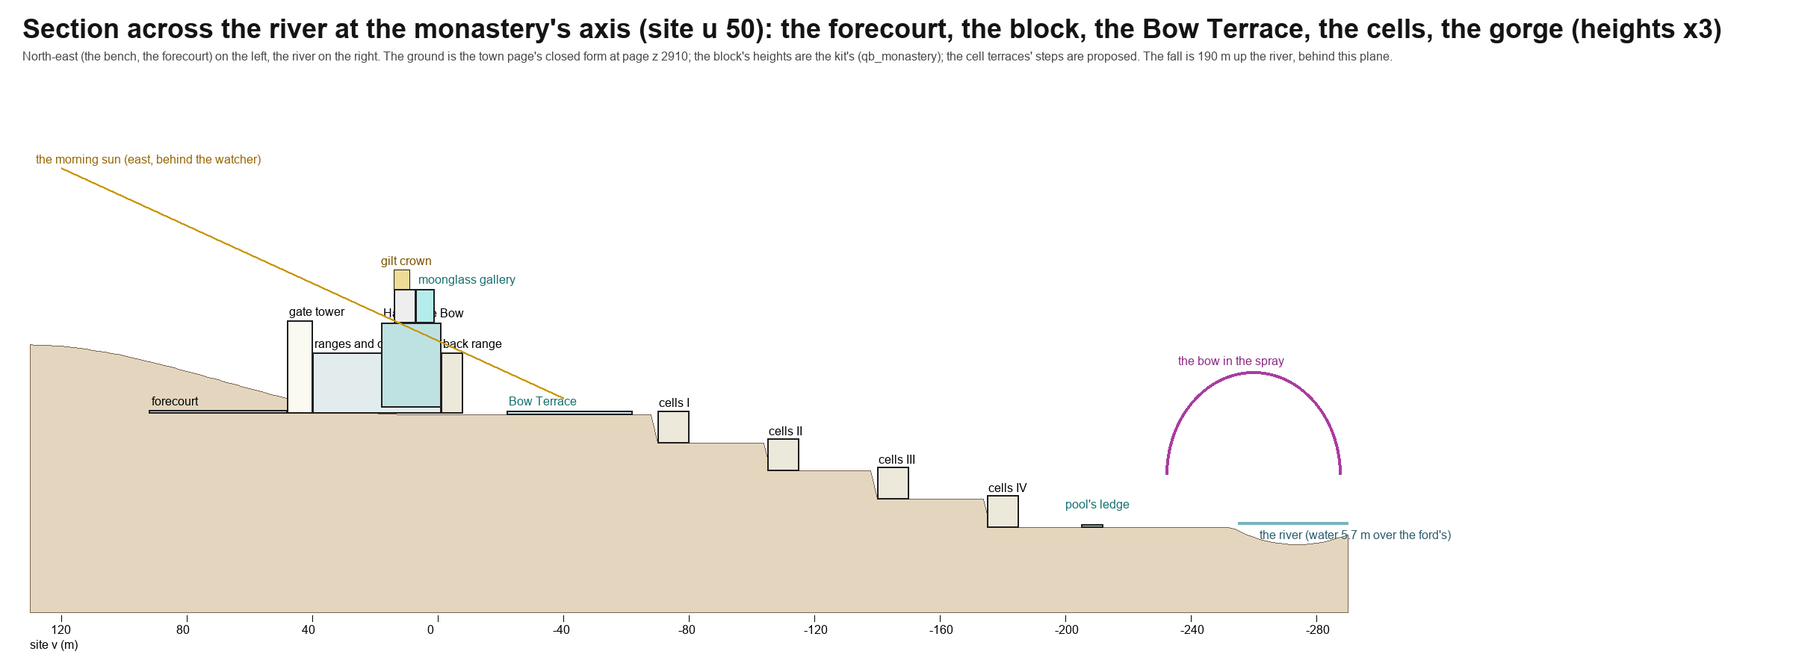
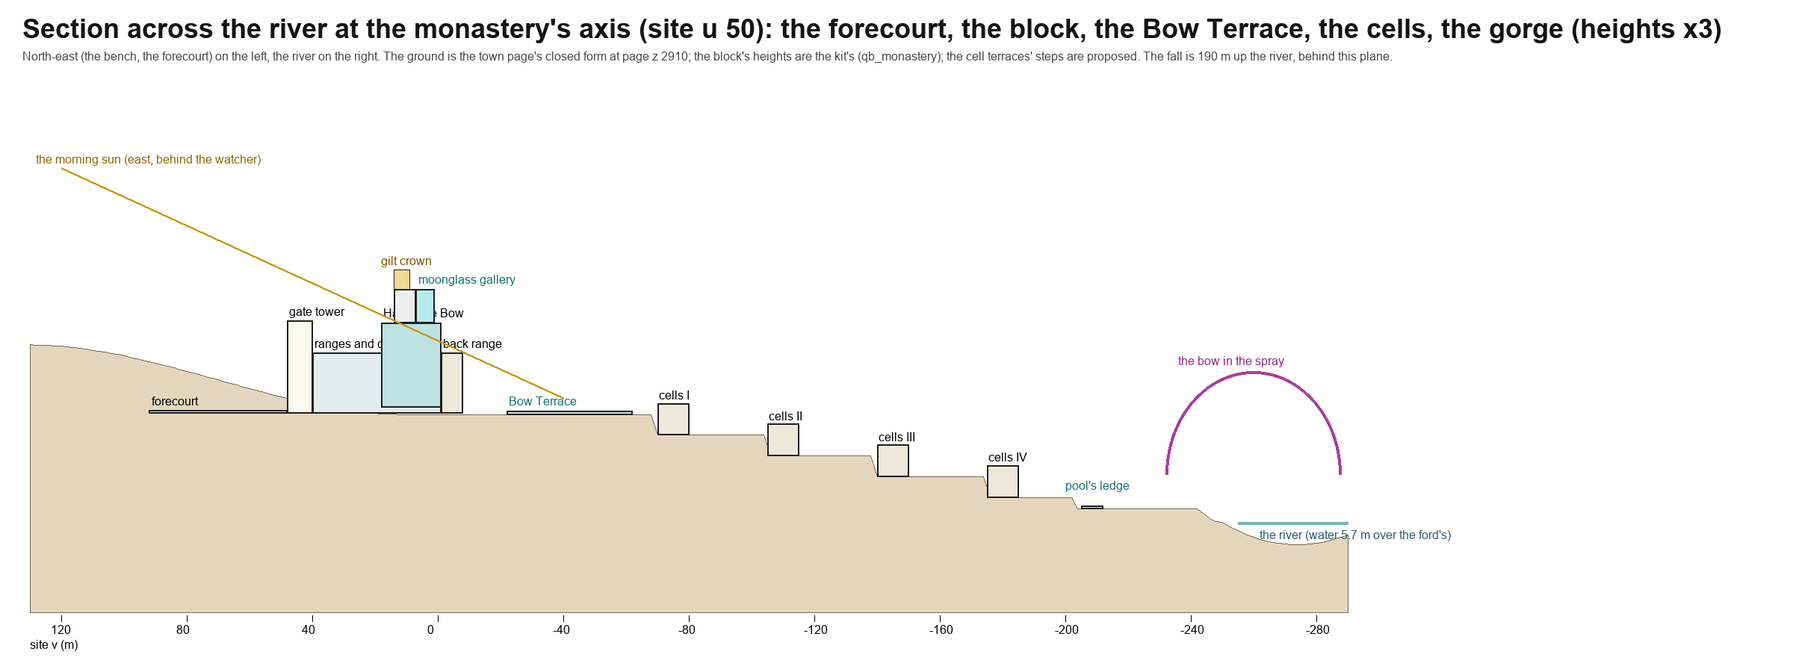
settlements/opal-ford: the Iridescent Order's house on the page (BUILD-PLAN A11b, step OF1b)
The owner, 2026-11-23: "Build the records".

- 89zp-of-site.js: OF.HOUSE, the blueprint's site frame on the page (u = z - 2860, v = x - 300). The ground (ofH over the
  bank's closed form, now ofHbare): the Bow Terrace levelled at its middle's height, the four cell terraces graded 2.2 m apart
  below it, the pool's ledge 10 m below it and about 2.5 m over the water; each a level platform blended into the bank, the
  terraces meeting in risers. The house's 50 records (OF_HOUSE_SPEC, kind 'order'): the Qiblai kit's great monastery in the
  Turquoise dress (o.v 4) with its gate north-east, the forecourt's wheel houses and chorten, the Prismarch's Lodge, the cells
  as the kit's kora arcades on the terraces with a chorten at each, the house of studies (college, gate temple, four lodges,
  the prism pillar), the Gate of the Road, the guest house (the kit's caravanserai), the infirmary, the service court, the
  Prism Workshop, the lay servants' houses, eight chortens down the Way of the Colours, the Bridge of the Spray and the far
  lip's chorten. The pavings, the tank, the Way and the kora as paths; the flora mask after the blueprint's gardens.
- kit.json: the Qiblai kit taken in place (externalDirs kits/qiblai/src, its pack), as Lightwall's page takes it; build.py
  writes its Xanadui script first. The page is 14.1 MB.
- 90q paints the pavings and the tank; 91z adds two views; verify.py: of-house, and of-works counts only the town's
[…]

Changed region(s): [[0.3438, 0.5911, 0.6875, 0.8089]]

diff --git a/settlements/opal-ford/targets/town/89zp-of-site.js b/settlements/opal-ford/targets/town/89zp-of-site.js
@@ -18,8 +18,9 @@
 // the market square at the ford street's head with the han across it, the temple above it, the toll house and the Golden Tears'
 // post at the ford's head; blocks filled by core/city's frontage-courts with the Xanadu kit's houses. Outside the town, placed as
 // hosts in the same instance: the footbridge's spans, the watermill on its race, the terraced fields and farmsteads on the
-// slope behind, the dugouts drawn up by the ford. Not built: the Iridescent Order's precinct at the fall's foot (OF.PRECINCT,
-// the owner, 2026-11-23: "Town first, then design"; PLAN.md step OF1b), kept clear of everything.
+// slope behind, the dugouts drawn up by the ford. At the fall's foot, in its own precinct (OF.PRECINCT; PLAN.md step OF1b): the
+// Iridescent Order's house from its blueprint (iridescent/BLUEPRINT.md), hand-placed records on platforms graded into the ground
+// (OF.HOUSE, ofH), none of the town's in it.
 var OF={SEED:96413,PIN:[969,1634],Y0:-13,DOWN:[-11,-8.5],
  RIVER:{hw:26,depth:2.4,ford:{hw:18,depth:1.8,len:110},meander:[30,1300,200]},
  REACH:{slack:[-1500,2500],slackRise:.0008,down:.012,up:.009,fall:{z:3100,h:20,len:90,gorge:420}},
@@ -27,7 +28,10 @@ var OF={SEED:96413,PIN:[969,1634],Y0:-13,DOWN:[-11,-8.5],
  SW:{bank:1.6,flats:130,spur:320,spurK:1800},
  TOWN:{o:[700,0],half:900,bank:460,high:620,back:800,z:[-440,440],cross:[-300,-140,140,300]},
  SQUARE:{x:[470,602],z:[16,128]},
- PRECINCT:{x:[90,560],z:[2580,3020]}};
+ PRECINCT:{x:[90,560],z:[2580,3045]},
+ /* the Iridescent Order's house (settlements/opal-ford/iridescent/BLUEPRINT.md): its site frame is u = z - 2860, v = x - 300;
+    the Bow Terrace levelled, the four cell terraces graded 2.2 m apart below it and the pool's ledge below them */
+ HOUSE:{z0:2860,x0:300,bow:{u:[20,140],v:[-62,-22]},terr:[-70,-105,-140,-175],cut:2.2,tu:[88,174],ledge:{u:[143,180],v:[-214,-203],below:10},blend:5}};
 const ofSm=(a,b,x)=>{const t=Math.min(1,Math.max(0,(x-a)/(b-a)));return t*t*(3-2*t);};
 const ofD=(v,d)=>v==null?d:v;
 // the river: its line (x of the channel's middle at z), its half-width and depth (the ford widens and shoals it)
@@ -43,7 +47,22 @@ function ofW(z){const R=OF.REACH,s=R.slack,F=R.fall;let y;
 // the valley's floor level at z: the water's, but the fall's step taken earlier (the banks stand over the river below it: the gorge)
 function ofFloor(z){const F=OF.REACH.fall;return ofW(z)-F.h*ofSm(F.z-F.len/2,F.z+F.len/2,z)+F.h*ofSm(F.z-F.gorge,F.z+F.len/2,z);}
 // the ground's height at page (x, z): the channel, then each bank's profile from the channel's edge (e metres out)
-function ofH(x,z){const w=ofW(z),c=ofRiverX(z),hw=ofHW(z),d=x-c,a=Math.abs(d);
+// the ground with the Iridescent Order's platforms graded into it (OF.HOUSE): the Bow Terrace levelled at its middle's height,
+// the four cell terraces 2.2 m apart below it, the pool's ledge 10 m below it; each a level platform blended into the bank over
+// OF.HOUSE.blend metres at its edges (cut where the bank stands higher, filled where it stands lower)
+let ofBowY=null;
+function ofHouseRects(){const Hh=OF.HOUSE,R=[{u:Hh.bow.u,v:Hh.bow.v,drop:0}];
+ Hh.terr.forEach((vt,k)=>R.push({u:Hh.tu,v:[vt-17,vt+(k?18:2)],drop:Hh.cut*(k+1)}));
+ R.push({u:Hh.ledge.u,v:Hh.ledge.v,drop:Hh.ledge.below});return R;}
+const OF_HOUSE_RECTS=ofHouseRects();
+function ofH(x,z){const y=ofHbare(x,z),Hh=OF.HOUSE,u=z-Hh.z0,v=x-Hh.x0;
+ if(u<Hh.bow.u[0]-Hh.blend||u>Hh.ledge.u[1]+Hh.blend||v<Hh.ledge.v[0]-Hh.blend||v>Hh.bow.v[1]+Hh.blend)return y;
+ if(ofBowY==null)ofBowY=ofHbare(Hh.x0+(Hh.bow.v[0]+Hh.bow.v[1])/2,Hh.z0+(Hh.bow.u[0]+Hh.bow.u[1])/2);
+ const b=Hh.blend;let bw=0,bl=0;for(const r of OF_HOUSE_RECTS){if(u<r.u[0]-b||u>r.u[1]+b||v<r.v[0]-b||v>r.v[1]+b)continue;
+  const w=ofSm(-b,0,u-r.u[0])*ofSm(-b,0,r.u[1]-u)*ofSm(-b,0,v-r.v[0])*ofSm(-b,0,r.v[1]-v);
+  if(w>bw){bw=w;bl=ofBowY-r.drop;}}   /* the platform it stands most within: adjacent terraces meet in a riser */
+ return bw>0?y+(bl-y)*bw:y;}
+function ofHbare(x,z){const w=ofW(z),c=ofRiverX(z),hw=ofHW(z),d=x-c,a=Math.abs(d);
  if(a<hw){const t=a/hw;return w-ofDepth(z)*(1-t*t);}
  const e=a-hw,L=ofFloor(z),lift=Math.max(0,L-w),N=OF.NE,S=OF.SW;
  let y=w+(lift+N.bank)*ofSm(0,14+2*lift,e);
@@ -171,8 +190,56 @@ function ofWorks(){const c0=ofRiverX(0),hw0=ofHW(0),W={};
   {tag:'the opal road up the south-west bank',w:6,pts:[[cw0-hw0-2,0],[-150,120],[-215,700],[-235,1500],[-255,2400],[-300,3500]]}];
  return W;}
 
+// ---------------------------------------------------------------- THE IRIDESCENT ORDER'S HOUSE (iridescent/BLUEPRINT.md; PLAN.md step OF1b)
+// The blueprint's buildings as records in its site frame (u up the river, v north-east: page x = v + 300, z = u + 2860), each
+// the kit piece that stands for it: the Qiblai kit's great monastery in the Turquoise dress (o.v 4) for sheets M1-MR, its gate
+// north-east and the Hall of the Bow toward the spray; the house of studies as the kit's college, a gate temple and four lodges
+// round the debate court (H1, H2: the kit has no 12 m range, the lodges stand for the dormitories); the cells as the kit's kora
+// arcades on the four graded terraces (C: no cell-range piece yet), a chorten at each terrace's fall end; the guest house as the
+// kit's caravanserai, the infirmary and the Prismarch's Lodge as its lodges, the service court in the Xanadu kit's pieces (G);
+// eight chortens down the Way of the Colours; the Bridge of the Spray (two spans) below the pool and the chorten on the far lip.
+// [key, u, v, facing ('+u' up the river, '-u' down it, '+v' away from the river, '-v' toward it), why, o.v, fy (a fixed floor
+// over the water: the spans)]
+const OF_FACE={'+u':0,'-u':Math.PI,'+v':Math.PI/2,'-v':-Math.PI/2};
+const OF_HOUSE_SPEC=(function(){
+ const S=[],TR=OF.HOUSE.terr;
+ S.push(['qb_monastery',50,20,'+v','the great monastery: the Hall of the Bow under the gilt crown, the Gallery of the Bow in moonglass facing the spray (sheets M1, M2, MR)',4]);
+ S.push(['qb_wheel_house',36,80,'+u','the forecourt\'s wheel house',0],['qb_wheel_house',64,80,'-u','the forecourt\'s wheel house',0],['qb_chorten',50,86,'-v','the eighth chorten, before the Gate of the White Light',0]);
+ S.push(['qb_guild_lodge',107,43,'-u','the Prismarch\'s Lodge: kept for the Prismarch of the Turquoise spoke on his way to Qiblai',0]);
+ TR.forEach((vt,k)=>{S.push(['qb_kora_arcade',107.2,vt-4,'-v','terrace '+(k+1)+': the cells (the kit\'s kora arcade stands for the cell range)',0],
+  ['qb_kora_arcade',131.6,vt-4,'-v','terrace '+(k+1)+': the cells',0],['qb_chorten',157,vt-5,'-v','terrace '+(k+1)+'\'s shrine, in '+['red','orange and yellow','green and turquoise','blue and violet'][k],0]);});
+ S.push(['qb_gate_temple',-110,150,'-v','the Gate of the Novices (the house of studies, sheet H1)',0],['qb_college',-110,201,'-v','the school of the divided light: lecture halls, the library, the scriptorium',0],
+  ['qb_guild_lodge',-140,160,'+u','a novices\' lodge (the dormitories, sheet H2)',0],['qb_guild_lodge',-140,200,'+u','a novices\' lodge',0],
+  ['qb_guild_lodge',-80,160,'-u','a novices\' lodge',0],['qb_guild_lodge',-80,200,'-u','the masters\' lodge',0],['qb_chorten',-110,171.5,'-v','the prism pillar of the debate court',0]);
+ S.push(['qb_gate_temple',-273,111,'-u','the Gate of the Road, on the river road from the town',0],['qb_caravanserai',-229,168,'-v','the guest house: the pilgrims and the opal road\'s travellers, its stable court',0],
+  ['qb_guild_lodge',-173,170,'-u','the infirmary',0],['qb_guild_lodge',-173,196,'-u','the apothecary',0],
+  ['xa_guild_farm',-46,142,'-v','the monks\' refectory (the Song read at meals)',0],['qb_bakery',-16,142,'-v','the great kitchen',0],
+  ['xa_granary',-50,184,'-v','the granary (the town\'s rice tithe)',0],['xa_granary',-28,184,'-v','the stores',0],['qb_workshop',-6,184,'-v','the laundry and dye house',0],
+  ['qb_workshop',-50,216,'-v','the Prism Workshop: the Glaziers\' lodge',0],['qb_workshop',-34,216,'-v','the glass store',0]);
+ [['xa_poor_c',-140],['xa_poor_a',-121],['xa_poor_b',-100],['xa_poor_c',-81]].forEach(([k,u])=>S.push([k,u,242,'-v','a lay servant\'s house',0]));
+ for(let k=0;k<8;k++)S.push(['qb_chorten',-250+23*k,128,'-v','a chorten of the Way of the Colours: '+['red','orange','yellow','green','turquoise','blue','violet','white'][k],0]);
+ return S;})();
+function ofHouse(){const K=KCITY.lib,Hh=OF.HOUSE,out=[],errs=[];
+ const put=(key,x,z,ry,why,v0,kind,fy)=>{const v=v0|0,D=ofDims(key,v);if(!D){errs.push(key);return;}
+  const u=[Math.cos(ry),-Math.sin(ry)],o=K.obb([x,z],u,D.w/2,D.d/2);let y,drop=0;
+  if(fy!=null)y=ofW(z)+fy;else{const st=KCITY.stance(o,ofH,{maxDrop:24});y=st?st.y:ofH(x,z);if(st)drop=st.drop||0;}
+  out.push({id:'house:'+out.length,key,v,x,z,ry,w:D.w,d:D.d,h:D.h,o:{v,y},kind,why,court:null,bo:{c:[x,z],u:o.u,hw:D.w/2,hd:D.d/2},drop});};
+ for(const [key,su,sv,f,why,v] of OF_HOUSE_SPEC)put(key,sv+Hh.x0,su+Hh.z0,OF_FACE[f],why,v,'order');
+ /* the Bridge of the Spray below the pool, and the chorten on the far lip where the kora turns */
+ const zb=Hh.z0+165,cb=ofRiverX(zb),hwb=ofHW(zb);
+ for(const i of[-1,1])put('xa_river_span',cb+i*13,zb,Math.PI/2,'the Bridge of the Spray: the kora crosses below the pool',0,'bridge',4);
+ put('qb_chorten',cb-hwb-34,zb,Math.PI/2,'the chorten on the far lip, facing the fall: the kora turns here',0,'order');
+ /* the pavings and the kora's paths, in page metres (drawn by 90q's paint and 90r) */
+ const P=(u,v)=>[v+Hh.x0,u+Hh.z0],rect=(us,vs)=>[P(us[0],vs[0]),P(us[1],vs[0]),P(us[1],vs[1]),P(us[0],vs[1])];
+ const pav=[{what:'the Bow Terrace',poly:rect(Hh.bow.u,Hh.bow.v)},{what:'the forecourt',poly:rect([30,70],[48,92])},{what:'the pool\'s ledge',poly:rect(Hh.ledge.u,Hh.ledge.v)}]
+  .concat(Hh.terr.map((vt,k)=>({what:'terrace '+(k+1)+'\'s walk',poly:rect([92,170],[vt-15,vt-9])})));
+ const ways=[{cls:'path',w:6,tag:'the Way of the Colours',pts:[P(-268,110),P(-60,110),P(20,96),P(50,62)]},
+  {cls:'path',w:3,tag:'the Kora of the Falls: down the Spray Stair',pts:[P(140,-42),P(166,-48),P(166,-208),P(160,-210)]},
+  {cls:'path',w:3,tag:'the kora up the far bank',pts:[[cb-hwb-2,zb],[cb-hwb-30,zb]]}];
+ return{place:out,errs,pavings:pav,ways,tank:rect([-60,-20],[72,98]),bridge:{z:zb}};}
+
 // ---------------------------------------------------------------- run the plan
-var OF_TOWN={},OF_PLACE=[],OF_WORKS=null,OF_ERR=null;
+var OF_TOWN={},OF_PLACE=[],OF_WORKS=null,OF_HOUSE=null,OF_ERR=null;
 function ofRun(){
  const C=KCITY.create({name:'opal-ford',tune:ofTune(OF.TOWN.half),seed:OF.SEED,ground:{h:OF_L.h},kit:{dims:ofDims},rand:'krand',index:{order:'insertion'},steps:ofSteps()});
  OF_TOWN.C=C;OF_TOWN.plan=C.run();OF_WORKS=ofWorks();
@@ -181,6 +248,8 @@ function ofRun(){
    kind:T.cls==='landmark'?(T.ofKind||'civic'):'house',why:T.why||T.role||null,court:T.court||null,bo:{c:q,u:T.bo.u,hw:T.bo.hw,hd:T.bo.hd},drop:T.drop||0});}
  OF.ways=OF_TOWN.plan.ways.map(w=>({cls:w.cls,w:w.w,tag:w.tag,pts:w.pts.map(p=>[p[0]+OF_L.o[0],p[1]+OF_L.o[1]]),closed:w.closed}))
   .concat(OF_WORKS.roads.map(r=>({cls:'road',w:r.w,tag:r.tag,pts:r.pts})));
+ /* the Iridescent Order's house, after the town (its records in OF_PLACE with kind 'order' and 'bridge', its paths with the ways) */
+ OF_HOUSE=ofHouse();for(const p of OF_HOUSE.place)OF_PLACE.push(p);OF.ways=OF.ways.concat(OF_HOUSE.ways);
  /* the people: each house's household by its key (the tune's 1,500, within 25 %), the hosts none */
  let people=0;for(const p of OF_PLACE)if(p.kind==='house')people+=ofD(OF_PEOPLE[p.key],5);
  OF.people={total:people,tune:OF_TUNE.people};
@@ -201,7 +270,9 @@ function ofBioMaskMake(){const S=KCITY.lib.KSPACE,B=S.create({cell:40}),W=S.crea
   for(const q of W.query(x,z,1)){const dx=q.b[0]-q.a[0],dz=q.b[1]-q.a[1],L2=Math.max(1e-9,dx*dx+dz*dz);let t=((x-q.a[0])*dx+(z-q.a[1])*dz)/L2;t=t<0?0:t>1?1:t;if(Math.hypot(q.a[0]+dx*t-x,q.a[1]+dz*t-z)<q.r)return 0;}
   for(const p of B.query(x,z,1))if(Math.abs((x-p.x)*p.bo.u[0]+(z-p.z)*p.bo.u[1])<p.bo.hw+1.5&&Math.abs(-(x-p.x)*p.bo.u[1]+(z-p.z)*p.bo.u[0])<p.bo.hd+1.5)return 0;
   for(const q of Pd.query(x,z,1))if(ofInPoly([x,z],q.poly))return 0;
-  if(x>PR.x[0]&&x<PR.x[1]&&z>PR.z[0]&&z<PR.z[1])return .02;                                    /* the precinct's clearing, kept */
+  if(x>PR.x[0]&&x<PR.x[1]&&z>PR.z[0]&&z<PR.z[1]){                                              /* the house's grounds (sheet S0) */
+   const u=z-OF.HOUSE.z0,v=x-OF.HOUSE.x0,inR=(u0,u1,v0,v1)=>u>u0&&u<u1&&v>v0&&v<v1;
+   if(inR(-262,-80,-150,96))return .5;if(inR(-262,-150,-210,-158))return .3;if(inR(92,150,66,124))return .22;if(inR(-60,14,-60,60))return .12;return .03;}
   const F=OF.REACH.fall;if(z>F.z-F.gorge-200&&z<F.z+300&&e<160)return .9;                      /* the gorge below the fall and its lip */
   if(d<0)return e<OF.SW.flats?.06:.75;                                                          /* the south-west bank: its flats, the spur */
   if(x>T.bank-20&&x<T.back+20&&z>T.z[0]&&z<T.z[1])return .05;                                    /* a yard in the town */
@@ -212,4 +283,5 @@ if(typeof BIO!=='undefined'&&BIO.host&&typeof VERN!=='undefined'&&!OF_ERR){
    flow:(x,z)=>Math.max(0,1-(Math.abs(x-ofRiverX(z))-ofHW(z))/30),mist:(x,z)=>Math.max(0,1-Math.hypot(x-ofRiverX(z),z-OF.REACH.fall.z)/220)}});}
 if(typeof window!=='undefined')window._opalford={placed:OF_PLACE.length,err:OF_ERR,people:OF.people,
  hosts:OF_PLACE.filter(p=>p.kind!=='house').length,houses:OF_PLACE.filter(p=>p.kind==='house').length,
- blocks:(OF_TOWN.blocks||[]).length,ways:(OF.ways||[]).length,paddies:OF_WORKS?OF_WORKS.paddies.length:0};
+ blocks:(OF_TOWN.blocks||[]).length,ways:(OF.ways||[]).length,paddies:OF_WORKS?OF_WORKS.paddies.length:0,
+ house:OF_HOUSE?{placed:OF_HOUSE.place.length,errs:OF_HOUSE.errs,bow:ofBowY}:null};

diff --git a/settlements/opal-ford/tests/test-of-site.js b/settlements/opal-ford/tests/test-of-site.js
@@ -6,7 +6,9 @@
 //   - no two standing footprints overlap (exact SAT, 0.1 m);
 //   - no house stands on a street's carriageway or a road's;
 //   - nothing but the footbridge's spans and the dugouts stands in the river; the dugouts at the waterline;
-//   - nothing on a paddy, nothing in the Iridescent Order's precinct (kept for its design, PLAN.md step OF1b);
+//   - nothing on a paddy, nothing of the town's in the Iridescent Order's precinct;
+//   - the house (iridescent/BLUEPRINT.md): every piece with its def, the great monastery in the Turquoise dress, the cells'
+//     arcades on their graded terraces, the Bow Terrace level, the pool's ledge over the water;
 //   - the people the tune's 1,500 within 25 %;
 //   - the han, the toll house, the Tears' post, the temple, the granaries, the mill, the footbridge, the dugouts, the terraces placed;
 //   - the plan is the same when run twice (KRAND).
@@ -23,9 +25,9 @@ KCITY.lib = { SL, plan: () => PLAN, KSPACE, Raster, OCC, obb, obbCorners };
 load('core/region/data/xan-tune.js');
 // the kit's boxes from its defs (src and the opt-in extra/ pieces the page takes: kit.json)
 global.OF_KIT_DIMS = {};
-const XS = [path.join(ROOT, 'kits', 'xanadu', 'src'), path.join(ROOT, 'kits', 'xanadu', 'extra')];
+const XS = [path.join(ROOT, 'kits', 'xanadu', 'src'), path.join(ROOT, 'kits', 'xanadu', 'extra'), path.join(ROOT, 'kits', 'qiblai', 'src')];   /* qiblai: the Iridescent Order's house */
 for (const f of [].concat(...XS.map(d => fs.readdirSync(d).filter(f => f.endsWith('.js')).map(f => path.join(d, f))))) {
-  const s = fs.readFileSync(f, 'utf8'), re = /XA\.def\(\{/g; let m;
+  const s = fs.readFileSync(f, 'utf8'), re = /(?:XA|QB)\.def\(\{/g; let m;
   while ((m = re.exec(s))) { const head = s.slice(m.index, m.index + 1500), k = /key:\s*'([^']+)'/.exec(head), b = /\bw:\s*([\d.]+),\s*d:\s*([\d.]+)(?:,\s*h:\s*([\d.]+))?/.exec(head);
     if (k && b && !OF_KIT_DIMS[k[1]]) OF_KIT_DIMS[k[1]] = { w: +b[1], d: +b[2], h: b[3] == null ? 8 : +b[3] }; }
 }
@@ -48,7 +50,7 @@ const WET_OK = { xa_river_span: 1, xa_dugout: 1 };
 const inRiver = list => list.filter(p => !WET_OK[p.key] && corners(p.bo).concat([p.bo.c]).some(q => ofH(q[0], q[1]) < ofW(q[1]) + 0.3));
 const boatsBad = list => list.filter(p => p.key === 'xa_dugout').filter(p => { const h = ofH(p.x, p.z) - ofW(p.z); return h < -1.2 || h > 1.6; });
 const onPaddy = list => list.filter(p => corners(p.bo).concat([p.bo.c]).some(q => OF_WORKS.paddies.some(P => ofInPoly(q, P.poly))));
-const inPrecinct = list => { const R = OF.PRECINCT; return list.filter(p => corners(p.bo).concat([p.bo.c]).some(q => q[0] > R.x[0] && q[0] < R.x[1] && q[1] > R.z[0] && q[1] < R.z[1])); };
+const inPrecinct = list => { const R = OF.PRECINCT; return list.filter(p => p.kind !== 'order' && p.kind !== 'bridge').filter(p => corners(p.bo).concat([p.bo.c]).some(q => q[0] > R.x[0] && q[0] < R.x[1] && q[1] > R.z[0] && q[1] < R.z[1])); };
 
 // ---------------------------------------------------------------- 1. the plan lays
 const P = OF_PLACE, houses = P.filter(p => p.kind === 'house');
@@ -78,10 +80,26 @@ T.ok('nothing but the footbridge\'s spans and the dugouts stands in the river; t
 
 // ---------------------------------------------------------------- 5. off the paddies; the precinct kept
 const pd = onPaddy(P), pr = inPrecinct(P);
-T.ok('nothing stands on a paddy; nothing in the Iridescent Order\'s precinct (kept for its design)', !pd.length && !pr.length && OF_WORKS.paddies.length > 60,
+T.ok('nothing stands on a paddy; nothing of the town\'s in the Iridescent Order\'s precinct', !pd.length && !pr.length && OF_WORKS.paddies.length > 60,
   pd.length + ' on a paddy' + (pd[0] ? ' (' + pd[0].id + ' ' + pd[0].key + ')' : '') + ', ' + pr.length + ' in the precinct, ' + OF_WORKS.paddies.length + ' paddies');
 { const a = houses[0], R = OF.PRECINCT, inp = Object.assign({}, a, { id: 'in', bo: Object.assign({}, a.bo, { c: [(R.x[0] + R.x[1]) / 2, (R.z[0] + R.z[1]) / 2] }) });
   T.neg('...its negative: a house set in the precinct is caught', L => inPrecinct(L).length === 0, [inp], [a]); }
+
+// ---------------------------------------------------------------- 5b. the Iridescent Order's house (iridescent/BLUEPRINT.md)
+// every piece with its def; the great monastery in the Turquoise dress (o.v 4); each terrace's arcades standing on its graded
+// level (the Bow Terrace's less 2.2 m a terrace); the Bow Terrace level over its whole length; the pool's ledge over the water
+function houseBad(H, bowY) { const bad = [], Hh = OF.HOUSE;
+  if (H.errs.length) bad.push('no def: ' + H.errs.join(', '));
+  const m = H.place.find(p => p.key === 'qb_monastery'); if (!m || m.v !== 4) bad.push('the great monastery missing or not Turquoise');
+  H.place.filter(p => p.key === 'qb_kora_arcade').forEach(p => { const k = Hh.terr.findIndex(vt => Math.abs(p.x - Hh.x0 - (vt - 4)) < 1), lv = bowY - Hh.cut * (k + 1);
+    if (k < 0 || Math.abs(ofH(p.x, p.z) - lv) > .3) bad.push(p.id + ' off its terrace (' + ofH(p.x, p.z).toFixed(2) + ' / ' + lv.toFixed(2) + ')'); });
+  for (const u of [Hh.bow.u[0] + 6, (Hh.bow.u[0] + Hh.bow.u[1]) / 2, Hh.bow.u[1] - 6]) { const h = ofH(Hh.x0 - 42, Hh.z0 + u); if (Math.abs(h - bowY) > .05) bad.push('the Bow Terrace not level at u ' + u + ' (' + h.toFixed(2) + ')'); }
+  for (const u of Hh.ledge.u) { const z = Hh.z0 + u, x = Hh.x0 + (Hh.ledge.v[0] + Hh.ledge.v[1]) / 2; if (ofH(x, z) - ofW(z) < 1.5) bad.push('the pool\'s ledge ' + (ofH(x, z) - ofW(z)).toFixed(2) + ' m over the water at u ' + u); }
+  return bad; }
+{ const H = OF_HOUSE, bad = houseBad(H, ofBowY);
+  T.ok('the Iridescent Order\'s house: ' + H.place.length + ' pieces, the monastery Turquoise, the cells on their terraces, the Bow Terrace level, the ledge over the water',
+    !bad.length && H.place.length >= 40, bad.slice(0, 4).join('; ') || ('the Bow Terrace at ' + ofBowY.toFixed(2) + ' m over the ford\'s water'));
+  T.neg('...its negative: the cells checked against the wrong level are caught', b => houseBad(H, b).length === 0, ofBowY + 1, ofBowY); }
 
 // ---------------------------------------------------------------- 6. the people and the hosts
 const ppl = OF.people.total, tune = OF.people.tune;

diff --git a/settlements/opal-ford/targets/town/90q-of-world.js b/settlements/opal-ford/targets/town/90q-of-world.js
@@ -44,6 +44,8 @@ const ofSlope=(x,z)=>{const e=6;return Math.hypot(ofH(x+e,z)-ofH(x-e,z),ofH(x,z+
  g.strokeStyle='#5c8f8a';line(OF_WORKS.race,4);line(OF_WORKS.tail,4);
  // the square (packed earth), the ways at their widths: the avenue and the roads in packed gravel, the streets and lanes cobbled
  const SQ=OF.SQUARE;g.fillStyle='#a69a84';g.fillRect(ogx(SQ.x[0]),ogz(SQ.z[0]),(SQ.x[1]-SQ.x[0])*OFG_PX,(SQ.z[1]-SQ.z[0])*OFG_PX);
+ /* the Iridescent Order's house: its pavings (the Bow Terrace, the forecourt, the terraces' walks, the pool's ledge) in pale stone, its tank */
+ if(OF_HOUSE){g.fillStyle='#b8b1a0';for(const q of OF_HOUSE.pavings){path(q.poly,true);g.fill();}g.fillStyle='#5f8f8c';path(OF_HOUSE.tank,true);g.fill();}
  for(const w of OF.ways){g.strokeStyle=w.cls==='road'?'#a39a82':w.cls==='avenue'?'#a8a194':w.cls==='main'?'#9b9386':'#8f887b';line(w.pts,w.w);}
  // a dooryard of trodden earth under every building, a shade darker than the ground (none under the spans and the boats)
  g.fillStyle='rgba(92,80,64,.35)';for(const p of OF_PLACE){if(p.kind==='bridge'||p.kind==='boat')continue;const b=p.bo,c=Math.cos(p.ry),s=Math.sin(p.ry),hw=b.hw+2,hd=b.hd+2;

diff --git a/settlements/opal-ford/targets/town/91z-views.js b/settlements/opal-ford/targets/town/91z-views.js
@@ -10,6 +10,9 @@ const VIEWS=(function(){const V={},c0=ofRiverX(0),T=OF.TOWN,F=OF.REACH.fall,PR=O
  V['The paddies on the flats']=[200,ofH(200,-900)+30,-1000,140,2,-300];
  V['The terraces behind the town']=[1700,ofH(1700,-700)+90,-800,1300,ofH(1300,0),0];
  {const cf=ofRiverX(F.z),x=cf+ofHW(F.z)+90,z=F.z-260;V['The fall and the precinct ground']=[x,ofH(x,z)+22,z,cf,ofW(F.z)-8,F.z];}
+ {const Hh=OF.HOUSE,m=OF_PLACE.find(p=>p.key==='qb_monastery');
+  if(m)V['The Iridescent house']=[m.x+150,m.o.y+70,m.z-170,m.x-60,m.o.y,m.z+40];
+  const x=Hh.x0-120,z=Hh.z0+120;V['The Bow Terrace and the cells']=[x+250,ofH(x+250,z-60)+30,z-60,x,ofH(x,z),z+60];}
  V['Up the river from the bridge']=[c0,ofW(OF_SPAN_Z)+7,OF_SPAN_Z,c0,ofW(2400),2400];
  return V;})();
 // the town as one budget (as Phēr's): every type in the class 'city'

diff --git a/settlements/opal-ford/dist/opal-ford.html b/settlements/opal-ford/dist/opal-ford.html
@@ -1,3 +1,3 @@
 version https://git-lfs.github.com/spec/v1
-oid sha256:40c981e0e35ff4c254f3e223c6ccd3d71c7efb3b10820d45bb402c2024307084
-size 9021687
+oid sha256:f19bf49350cd1b9c8030c38990a5ac765690b4638ca3ad152022c0c0c5dc7b0f
+size 14460118

diff --git a/settlements/opal-ford/iridescent/iridescent_blueprint.py b/settlements/opal-ford/iridescent/iridescent_blueprint.py
@@ -59,7 +59,7 @@ def of_h_ne(x, z):
 BLK = (22, 78, -8, 48)
 COLL = (-150, -70, 140, 220)           # the house of studies, 80 x 80 m round its debate court
 TERR = [(-70 - 35 * k) for k in range(4)]   # the cell terraces' upper edges (v), stepping down toward the gorge
-CUT = 3.0                                   # each terrace graded 3 m below the one above (the page's bank is level: OF1b grades the cuts)
+CUT = 2.2                                   # each terrace graded 2.2 m below the one above (the page's OF.HOUSE.cut: the ledge stays over the water)
 FLOORS.append(dict(R=300, rect=(-290, 190, -270, 275), id='S0', tier=0,
   title='Sheet S0: the Iridescent Order\'s house at the cataract\'s foot, the precinct (480 x 545 m)',
   sub='On the north-east bank below the bow\'s fall (off the sheet to the right, at u 240): the flats, the riser of the first rise above the flood and the bench\'s edge, the gorge wall falling to the river at the bottom. '
@@ -247,7 +247,7 @@ crooms += [box(n, 'The Spray Stair', 'stair', SPRAY, 1, 'the kora goes down it; 
            R(n + 3, 'The Bow Terrace (above)', 'bow_terrace', 92, 170, -62, -50, 3)]
 FLOORS.append(dict(R=80, rect=(86, 182, -216, -46), id='C', tier=0,
   title='Sheet C: the cell terraces down the gorge wall beside the fall (four terraces, drawn in place)',
-  sub='Forty-eight cells on four terraces stepping down toward the gorge, each cut 3 m below the one above into the level bank (12 m in all, down to the pool\'s ledge over the water; proposed: step OF1b grades the cuts into the page\'s ground), every cell with its window on the spray of the fall 80 m up the river. '
+  sub='Forty-eight cells on four terraces stepping down toward the gorge, each graded 2.2 m below the one above into the level bank, the pool\'s ledge 10 m below the Bow Terrace and some 2.5 m over the water (the page\'s ground: OF.HOUSE), every cell with its window on the spray of the fall 80 m up the river. '
       'Each terrace has its walk in front (the kora\'s station), its shrine at the fall\'s end in one of the bow\'s colours, red at the top to violet at the foot. The Spray Stair links them to the Bow Terrace and the pool\'s ledge.',
   axisnote='u -> up the river, toward the fall (right); v north-east (up); the river below',
   lines=[([(86, -214), (182, -214)], (90, 150, 170), 4, 'the river\'s edge below the ledge')],
@@ -362,6 +362,7 @@ def draw_section():
     def gy(v):
         """the ground with the terraces' cuts (proposed: the page's bank is level here; step OF1b grades the cuts into its ground)"""
         if v > TERR[0]: return gn(v)
+        if v <= -203: return min(gn(v), gflat - 10)          # the pool's ledge (OF.HOUSE.ledge.below)
         k = min(3, int((TERR[0] - v) // 35))
         return min(gn(v), gflat - CUT * (k + 1))
     y0 = min(gy(v) for v in range(vmin, vmax + 1)) - 4

diff --git a/settlements/opal-ford/verify.py b/settlements/opal-ford/verify.py
@@ -36,8 +36,10 @@ CITY_JS = r"""
   const b=p.bo,c=Math.cos(p.ry),s=Math.sin(p.ry),hs=[[0,0],[-b.hw,-b.hd],[b.hw,-b.hd],[b.hw,b.hd],[-b.hw,b.hd]].map(q=>ofH(p.x+q[0]*c+q[1]*s,p.z-q[0]*s+q[1]*c));
   const lo=ofH(p.x,p.z)-(p.drop||0)-.8,hi=Math.max.apply(null,hs)+1;if(!(p.o.y>=lo&&p.o.y<=hi)){bad++;first=first||(p.id+' '+p.key+' floor '+p.o.y.toFixed(1)+' ground '+hs[0].toFixed(1));}}
  R.push({name:'of-ground',ok:bad===0,detail:bad?bad+' off their ground, first '+first:'every floor on its ground (its footing under it)'});
- const Wk=Q.works||{},PR=typeof OF!=='undefined'?OF.PRECINCT:null,inPr=PR?P.filter(p=>p.x>PR.x[0]&&p.x<PR.x[1]&&p.z>PR.z[0]&&p.z<PR.z[1]).length:-1;
- R.push({name:'of-works',ok:Wk.stone>40&&Wk.stakes>100&&inPr===0,detail:(Wk.stone||0)+' stones of the ford and the weir, '+(Wk.stakes||0)+' stakes, '+inPr+' buildings in the precinct'});}
+ const Wk=Q.works||{},PR=typeof OF!=='undefined'?OF.PRECINCT:null,inPr=PR?P.filter(p=>p.kind!=='order'&&p.kind!=='bridge'&&p.x>PR.x[0]&&p.x<PR.x[1]&&p.z>PR.z[0]&&p.z<PR.z[1]).length:-1;
+ R.push({name:'of-works',ok:Wk.stone>40&&Wk.stakes>100&&inPr===0,detail:(Wk.stone||0)+' stones of the ford and the weir, '+(Wk.stakes||0)+' stakes, '+inPr+' of the town\'s buildings in the precinct'});
+ const Ho=Q.house||{},mon=P.find(p=>p.key==='qb_monastery'),hd=P.filter(p=>p.kind==='order'||p.kind==='bridge');
+ R.push({name:'of-house',ok:Ho.placed>=40&&!(Ho.errs||[]).length&&!!mon&&mon.v===4&&!!mon.G,detail:(Ho.placed||0)+' pieces of the Iridescent Order\'s house, '+hd.filter(p=>p.G).length+' drawn'+((Ho.errs||[]).length?', no def: '+Ho.errs.join(', '):'')+(mon?', the great monastery in dress '+mon.v:', no great monastery')});}
 return R;}"""
 xv.ASSERT_JS = xv.ASSERT_JS.rstrip()[:-len('return R;}')] + CITY_JS
 assert xv.ASSERT_JS.endswith('return R;}'), 'settlements/xanadu/verify.py ASSERT_JS no longer ends with return R;}'

diff --git a/settlements/opal-ford/build.py b/settlements/opal-ford/build.py
@@ -68,8 +68,13 @@ def write_gen():
 
 
 BSRC.note(*([SPACE, TUNE] + ['core/city/' + f for f in CITY_JS] + sorted(BIO_MIN.values())))
+# the Xanadui script the Qiblai kit lifts from the chart (kits/qiblai/xanadui_script.py), current before its fragments are read
+# (the Iridescent Order's house is the Qiblai kit's: kit.json externalDirs kits/qiblai/src, as settlements/lightwall takes it)
+sys.path.insert(0, os.path.join(ROOT, 'kits', 'qiblai')); import xanadui_script
+BSRC.note(xanadui_script.CHART, os.path.join(ROOT, 'kits', 'qiblai', 'xanadui_script.py'))
 if not BSRC.LISTING:
     write_gen()
+    xanadui_script.write()
 
 if '--no-checks' not in sys.argv:
     if subprocess.call([sys.executable, os.path.join(ROOT, 'tools', 'check_port.py'), '--quiet', HERE]) != 0:

diff --git a/settlements/xanadu/BUILD-PLAN.md b/settlements/xanadu/BUILD-PLAN.md
@@ -91,7 +91,7 @@ cut site or a pin only), **3 sited**, **32 with a tune record or nothing**. Now:
 | **A9** | Countryside H2 | The sample module (`core/world/48v`, `88v`), opt-in, on `xanadu-lake-shore` and `xanadu-north-shore` | A5 (the regions settled) | 1 |
 | **A10** | (the scale-model queue) | The records-only batch of section 4 | its turn in the queue | |
 | **A11** (**built** 2026-11-23: `settlements/opal-ford`, the town on its own ground, its tune record `T.opalford` and `road.ks-opalford` (hub Kirstabal until Gihon's record lands); the Iridescent Order's precinct kept clear) | Ōpal-Phōrḍ OF1 | The river town's page on Xanadu's page (`--kit`), on its own ground; its tune record and the road (the owner: records with the build) | A5 | 1 |
-| **A11b** (**in part** 2026-11-23: the blueprint, `settlements/opal-ford/iridescent/BLUEPRINT.md`; the records and the page next) | Ōpal-Phōrḍ OF1b | The Iridescent Order's second great house at the cataract's foot (the owner, 2026-11-23: "Both are big houses", ~450, Qiblai Turquoise): its blueprint, then its records in the page's precinct (`settlements/opal-ford/PLAN.md` section 2b) | A11 | 1 |
+| **A11b** (**built** 2026-11-23: the blueprint, `settlements/opal-ford/iridescent/BLUEPRINT.md`, and its records on Ōpal-Phōrḍ's page; its interiors owed) | Ōpal-Phōrḍ OF1b | The Iridescent Order's second great house at the cataract's foot (the owner, 2026-11-23: "Both are big houses", ~450, Qiblai Turquoise): its blueprint, then its records in the page's precinct (`settlements/opal-ford/PLAN.md` section 2b) | A11 | 1 |
 | **A12** (**built** 2026-11-23: the sites, the cut and both villages; the ground was good, the villages' lanes wanted a link) | West villages H6 | Wesṭ-Rōḍ and Rim-Phārm on the Lake Shore region (`HAMLETS-PLAN.md` 3d, H6): two sites, the cut widened west, their hamlets | A5 | 1 |
 
 About **11-13 sessions** (est.). **Merged on this branch 2026-11-23** (local, 2e0516bf3): A1-A3, A7, A8 and STACK-PLAN XS0 (partial), XS1, XS2, from their cloud branches. A1 first; then A2-A5 one at a time (they share the target's fragments: two writers never

diff --git a/settlements/opal-ford/README.md b/settlements/opal-ford/README.md
@@ -15,8 +15,11 @@ its own ground until the Siqārp region is cut (step OF2).
   it, 65 terraced fields and four farmsteads on the slope behind. The blocks are filled by `core/city`'s frontage-courts with the
   Xanadu kit's houses (216 houses, about 1,380 people against the tune's 1,500). Outside the town: the paddies on both banks' flats
   (about 180 basins), the ford's causeway and stones, the mill's weir, three fish weirs, the roads (down to Gihon, up the river to
-  the fall, over the ford and up the south-west bank). **The Iridescent Order's precinct** at the fall's foot is kept clear for
-  its design (`OF.PRECINCT`; PLAN.md section 2b, step OF1b). The people come from the tune (`XAN_TUNE.opalford`, read in place).
+  the fall, over the ford and up the south-west bank). **The Iridescent Order's house** at the fall's foot (`OF.HOUSE`, PLAN.md
+  section 2b, step OF1b; `iridescent/BLUEPRINT.md`): the Qiblai kit's great monastery in the Turquoise dress, the house of studies,
+  the cells on four terraces graded down toward the gorge, the guest house, the infirmary, the service court, the Prismarch's
+  Lodge, eight chortens down the Way of the Colours, the Bridge of the Spray; the Bow Terrace levelled before the hall, the
+  pool's ledge over the water (50 pieces; the Qiblai kit is taken in place, `kit.json` externalDirs, as Lightwall's page takes it). The people come from the tune (`XAN_TUNE.opalford`, read in place).
 - `targets/town/90q-of-world.js` (`[web]`): the sky, the painted ground with the library's sets over it, the far ground, the river
   (a ribbon at its water's height, white water over the fall); the near ground registered with core/drawn.
 - `targets/town/90r-of-build.js` (`[web]`): every record drawn with `VERN.place`, chunk by chunk, with the runtime LOD; the ford,

diff --git a/settlements/opal-ford/PORT.md b/settlements/opal-ford/PORT.md
@@ -6,17 +6,17 @@ Tags: `[G data]` engine-neutral, port or export · `[G shader]` rewrite once as 
 
 | | [G data] | [G shader] | [G native] | [web] | [draw] |
 |---|---|---|---|---|---|
-| KB | 22 (56%) | 0 (0%) | 0 (0%) | 18 (44%) | 0 (0%) |
+| KB | 30 (63%) | 0 (0%) | 0 (0%) | 18 (37%) | 0 (0%) |
 
 Columns: matching lines per API family. `canvas` is canvas 2D (texture painters), `DOM` and `events` and `loop` are the browser, `shader` is GLSL and shader hooks, `inst` is InstancedMesh, `ray` is Raycaster, `geom` is geometry-kit calls (BOX, F.box, kdef, *Geometry). `store` and `net` should stay 0.
 
 | Fragment | KB | Tag | THREE | canvas | DOM | events | loop | geom | shader | inst | ray | store | net | Note |
 |---|---|---|---|---|---|---|---|---|---|---|---|---|---|---|
 | `targets/town/89z-rows.js` | 0.5 | [G data] | 0 | 0 | 0 | 0 | 0 | 0 | 0 | 0 | 0 | 0 | 0 | no three.js, no geometry, no DOM |
-| `targets/town/89zp-of-site.js` | 20.3 | [G data] | 0 | 0 | 0 | 0 | 0 | 2 | 0 | 0 | 0 | 0 | 0 | no three.js, no geometry, no DOM |
-| `targets/town/90q-of-world.js` | 12.2 | [web] | 11 | 3 | 0 | 0 | 2 | 3 | 5 | 0 | 0 | 0 | 0 |  |
+| `targets/town/89zp-of-site.js` | 28.4 | [G data] | 0 | 0 | 0 | 0 | 0 | 2 | 0 | 0 | 0 | 0 | 0 | no three.js, no geometry, no DOM |
+| `targets/town/90q-of-world.js` | 12.5 | [web] | 11 | 3 | 0 | 0 | 2 | 3 | 5 | 0 | 0 | 0 | 0 |  |
 | `targets/town/90r-of-build.js` | 5.3 | [web] | 4 | 0 | 0 | 0 | 2 | 2 | 0 | 1 | 0 | 0 | 0 |  |
-| `targets/town/91z-views.js` | 1.2 | [G data] | 0 | 0 | 0 | 0 | 0 | 0 | 0 | 0 | 0 | 0 | 0 | no three.js, no geometry, no DOM |
+| `targets/town/91z-views.js` | 1.5 | [G data] | 0 | 0 | 0 | 0 | 0 | 0 | 0 | 0 | 0 | 0 | 0 | no three.js, no geometry, no DOM |
 
 ## Notes
 

diff --git a/settlements/opal-ford/PLAN.md b/settlements/opal-ford/PLAN.md
@@ -92,5 +92,5 @@ with its toll bar), `xa_fort_post` (the Tears' post), `xa_temple`, `xa_shops`, `
 | Step | What | When |
 |---|---|---|
 | **OF1** (**built** 2026-11-23: README.md; KNOWN_ISSUES.md has what is owed) | The page: a build on Xanadu's page (`--kit`, as Phēr's), the town on its own ground, the tune record and the road, its verify | after the lake towns (BUILD-PLAN phase A), before Stage 8 (a layout) |
-| **OF1b** (**blueprint drawn** 2026-11-23: `iridescent/BLUEPRINT.md`, the owner's forks: a house of studies, the kit block with stepped cells, a prior under Rēnbō-Phāl, the moonglass hall under the gilt crown; the records next) | The Iridescent Order's house (section 2b): its blueprint (the precinct, the Hall of the Bow, the cells, the guest house, the kora to the fall), then its records on the Qiblai kit in the page's reserved precinct | after OF1 |
+| **OF1b** (**built** 2026-11-23: the blueprint, `iridescent/BLUEPRINT.md`, the owner's forks: a house of studies, the kit block with stepped cells, a prior under Rēnbō-Phāl, the moonglass hall under the gilt crown; its records on the page, the platforms graded; interiors owed, KNOWN_ISSUES.md) | The Iridescent Order's house (section 2b): its blueprint (the precinct, the Hall of the Bow, the cells, the guest house, the kora to the fall), then its records on the Qiblai kit in the page's reserved precinct | after OF1 |
 | **OF2** | On the Siqārp region: the ground fitted to the region's, the town baked in, the road to Gihon and up to Lāiṭwāl | when the stack cuts Siqārp (STACK-PLAN XP5) |
